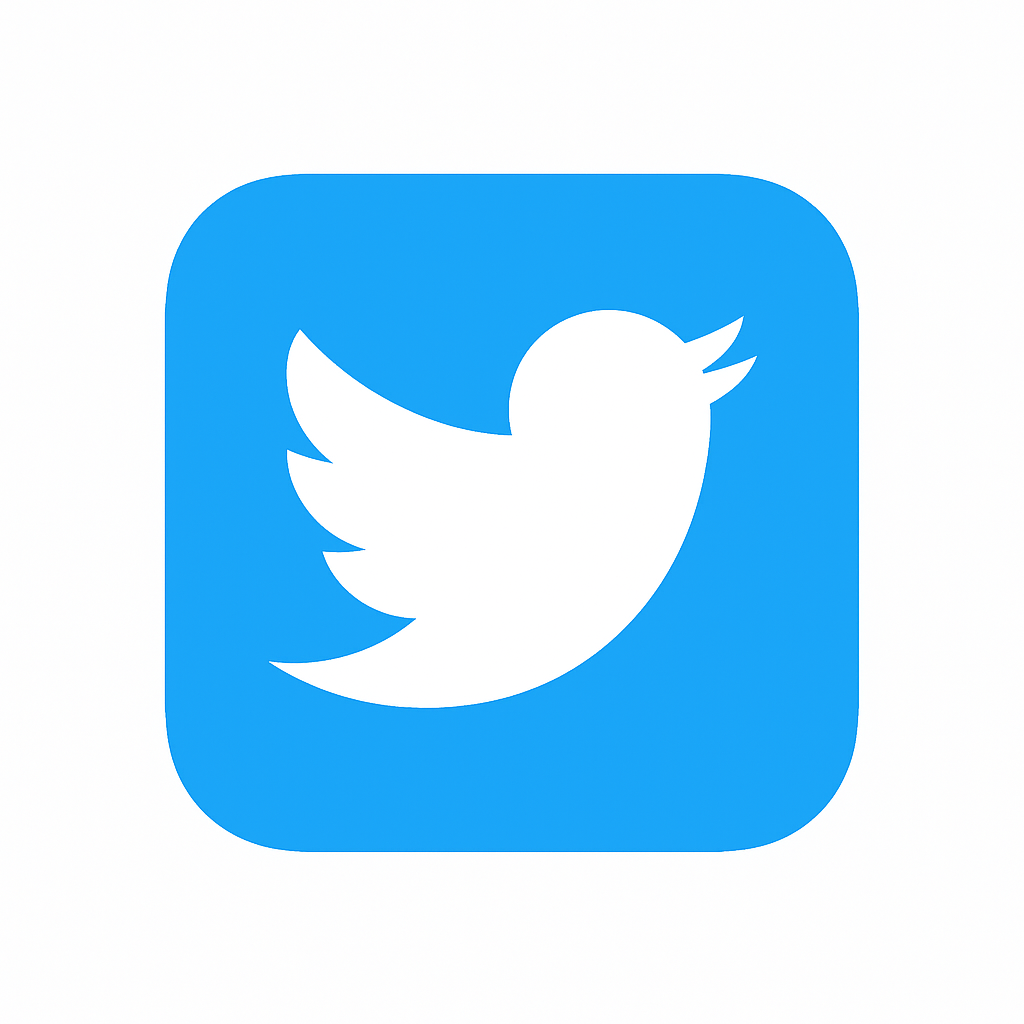
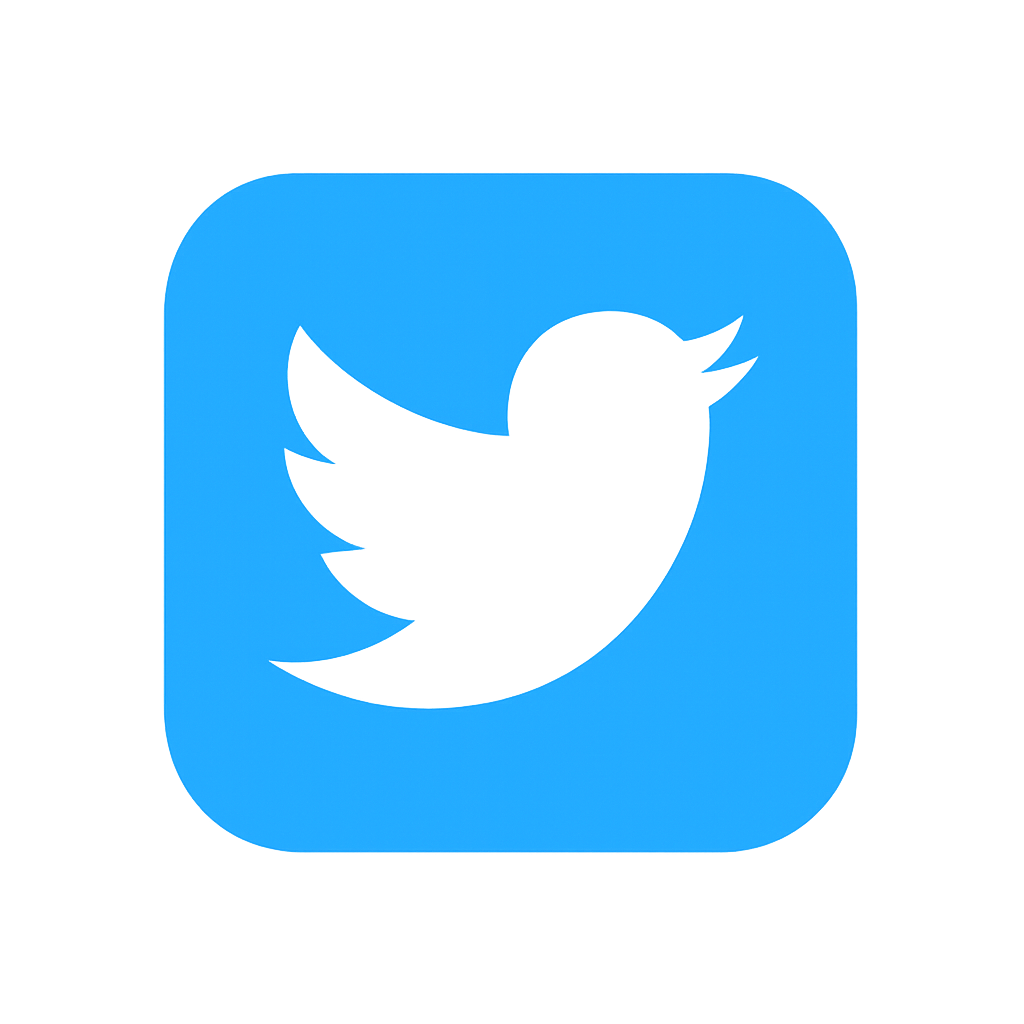
agrego imagen png de twiter

diff --git a/FRONT-END/INICIO/index.html b/FRONT-END/INICIO/index.html
@@ -422,8 +422,13 @@
                                 </a>
                         </li>
                         <li>
-                                <a href="" title="facebook| BOEDO-CLASH">
+                                <a href="" title="facebook | BOEDO-CLASH">
                                         <img src="../../img/img_facebook.png" class="redes_sociales">
+                                </a>
+                        </li>
+                        <li>
+                                 <a href="" title="twiter | BOEDO-CLASH">
+                                        <img src="../../img/twiter.png" class="redes_sociales">
                                 </a>
                         </li>
                         </ul>
